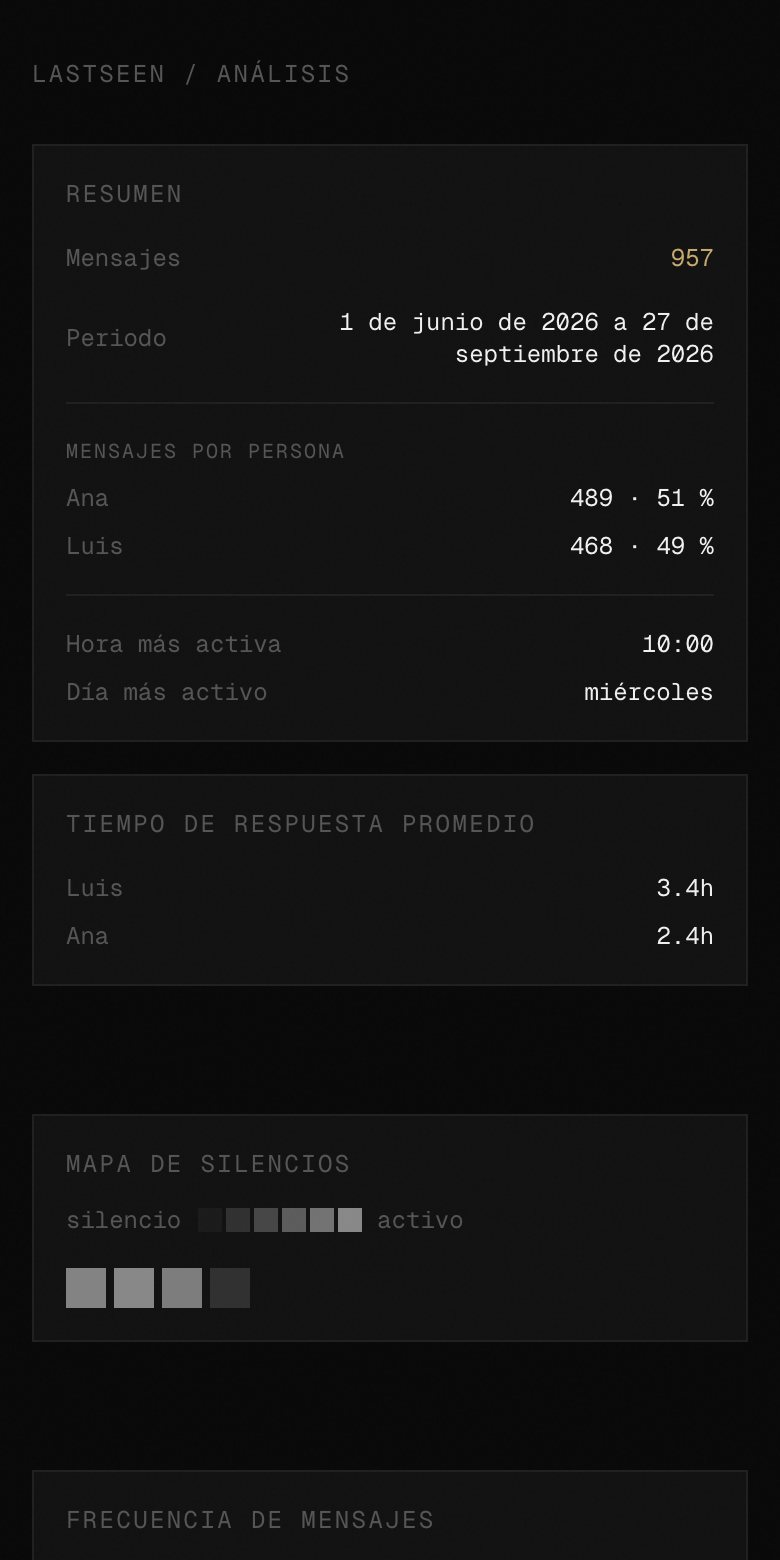
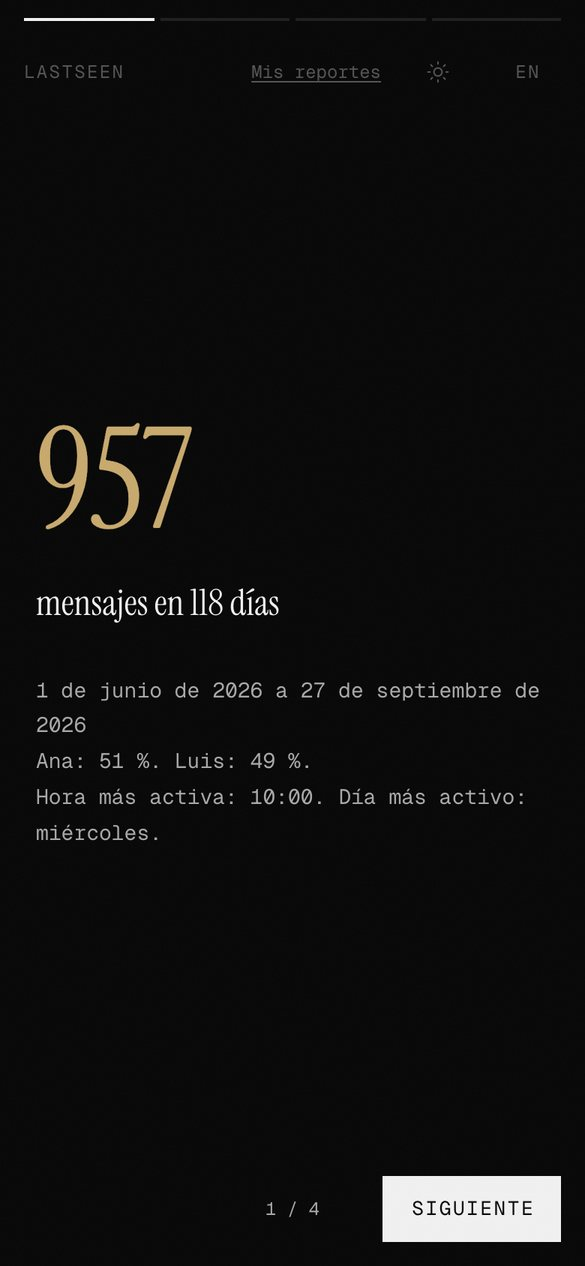
docs: screenshots of the chapter layout

diff --git a/README.md b/README.md
@@ -5,8 +5,8 @@ FastAPI and Celery pipeline that parses an exported WhatsApp chat, runs four ana
 <table>
 <tr>
 <td align="center"><img src="docs/screenshots/02-preview.jpg" width="200" alt="Free preview"/><br/><sub>Free preview</sub></td>
-<td align="center"><img src="docs/screenshots/04-narrative.jpg" width="200" alt="Narrative"/><br/><sub>Narrative</sub></td>
-<td align="center"><img src="docs/screenshots/05-metrics.jpg" width="200" alt="Metrics"/><br/><sub>Metrics</sub></td>
+<td align="center"><img src="docs/screenshots/05-turning-point.jpg" width="200" alt="Turning point"/><br/><sub>Turning point</sub></td>
+<td align="center"><img src="docs/screenshots/07-narrative.jpg" width="200" alt="Narrative"/><br/><sub>Narrative</sub></td>
 <td align="center"><img src="docs/screenshots/08-share-card.jpg" width="200" alt="Share card"/><br/><sub>Share card</sub></td>
 </tr>
 </table>
